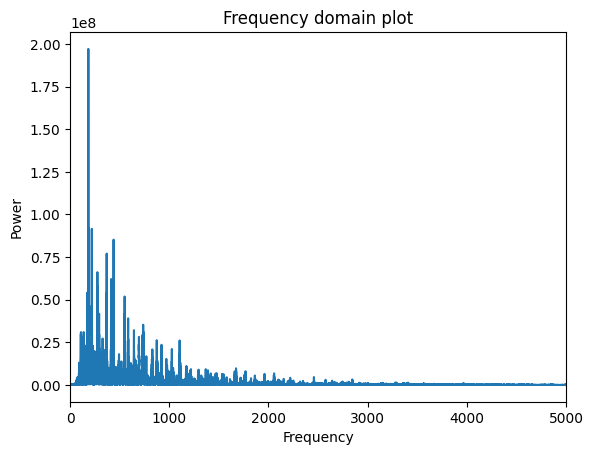
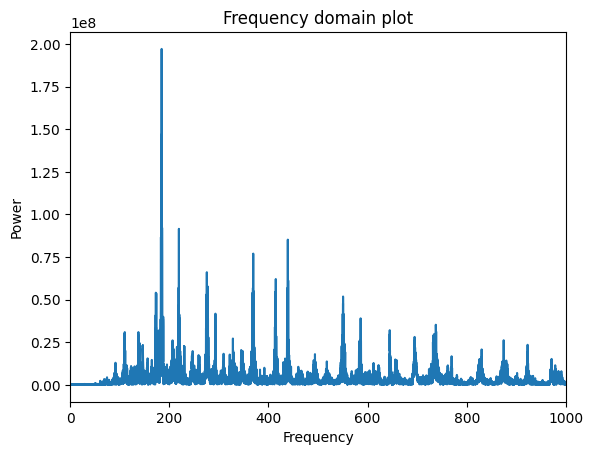
Improved sigmoid LP filter and plot fn

diff --git a/fft_filter.py b/fft_filter.py
@@ -2,6 +2,7 @@ import numpy as np
 import math
 from matplotlib import pyplot as plt
 from scipy.io.wavfile import read, write
+from scipy.special import expit
 import scipy.fft as fourier
 
 """
@@ -52,19 +53,20 @@ INPUTS:
 	title: plot title (string)
 	xLab, yLab: x- and y-axis labels (strings)
 	fileName: filename (string)
-	removeHigh: bool, if True, will only show frequencies from 0-5000 Hz. 
+	xMax (optional): upper limit for x-axis, if not included, will show all
+					 x-values passed 
 	
 OUTPUTS: none
 """
-def plotFreqs(x, y, title, xLab, yLab, fileName, removeHigh = False):
+def plotFreqs(x, y, title, xLab, yLab, fileName, xMax = None):
 	plt.figure()
 	fig, ax = plt.subplots()
 	ax.plot(x, y)
 	plt.title(title)
 	plt.xlabel(xLab)
 	plt.ylabel(yLab)
-	if removeHigh:
-		plt.xlim([0,5000])
+	if xMax is not None:
+		plt.xlim([0,xMax])
 	plt.savefig(fileName+'.png', bbox_inches='tight')
 	plt.close('all')
 	return
@@ -86,11 +88,13 @@ def naiveLP(freqs, powers, cutoff):
 	return filteredPowers
 	
 def LP(freqs, powers, centerFreq, ramp):
-	LPfilter = 1/(1 + np.exp(ramp*(freqs - centerFreq)))
+	LPfilter = expit(ramp * (centerFreq - freqs))
 	return powers * LPfilter
 
 if __name__ == "__main__":
 	
+	
+	# Testing rfft on combination of sine tones
 	"""
 	srate = 44100
 	length = 5
@@ -110,31 +114,35 @@ if __name__ == "__main__":
 	plt.show()
 	"""
 	
-	# Read in sample audio signal
+	# Read in sample audio signal:
 	rate, signal = read("audioSample.wav")
 	
-	# make mono
+	# make mono:
 	monoSignal = np.int16((signal[:,0] + signal[:,1])/2)
-	# write("monoAudioSample.wav", rate, monoSignal) 
-	# checking that making signal mono works as intended without ruining audio
 	
-	# Apply FFT
+	# checking that making signal mono works as intended without ruining audio:
+	# write("monoAudioSample.wav", rate, monoSignal) 
+	
+	# Apply FFT:
 	freqs, powers = fourierTransform(monoSignal, rate)
 	
-	"""
-	plotFreqs(freqs, np.abs(powers), "Frequency domain plot", "Frequency", "Power", "sampleFreqPlot")
-	plotFreqs(freqs, np.abs(powers), "Frequency domain plot", "Frequency", "Power", "sampleFreqPlotTrimmed", removeHigh = True)
 	
-	# Apply naive low-pass filter
+	plotFreqs(freqs, np.abs(powers), "Frequency domain plot", "Frequency", "Power", "sampleFreqPlot")
+	plotFreqs(freqs, np.abs(powers), "Frequency domain plot", "Frequency", "Power", "sampleFreqPlotTrimmed", xMax = 1000)
+	
+	# Apply naive low-pass filter:
 	powersLP = naiveLP(freqs, powers, 440)
-	# plotFreqs(freqs, np.abs(powersLP), "Filtered frequency plot", "Frequency", "Power", "sampleFreqPlotFiltered", removeHigh = True)
+	plotFreqs(freqs, np.abs(powersLP), "Filtered frequency plot", "Frequency", "Power", "sampleNaiveLP", xMax = 1000)
 	
 	# Transform back into signal and save
 	filteredSignal = inverseFourierTransform(powersLP)
 	write("testingTransformedSignal.wav", rate, filteredSignal)
-	"""
+	
 	# Now try applying less-naive LP filter
 	powersLP2 = LP(freqs, powers, 440, 0.075)
+	plotFreqs(freqs, np.abs(powersLP2), "Sigmoid-filtered frequency plot", \
+							"Frequency", "Power", "sampleSigmoidLP",
+							xMax = 1000)
 	
 	# Tranform back into signal and save
 	filteredSignal2 = inverseFourierTransform(powersLP2)
